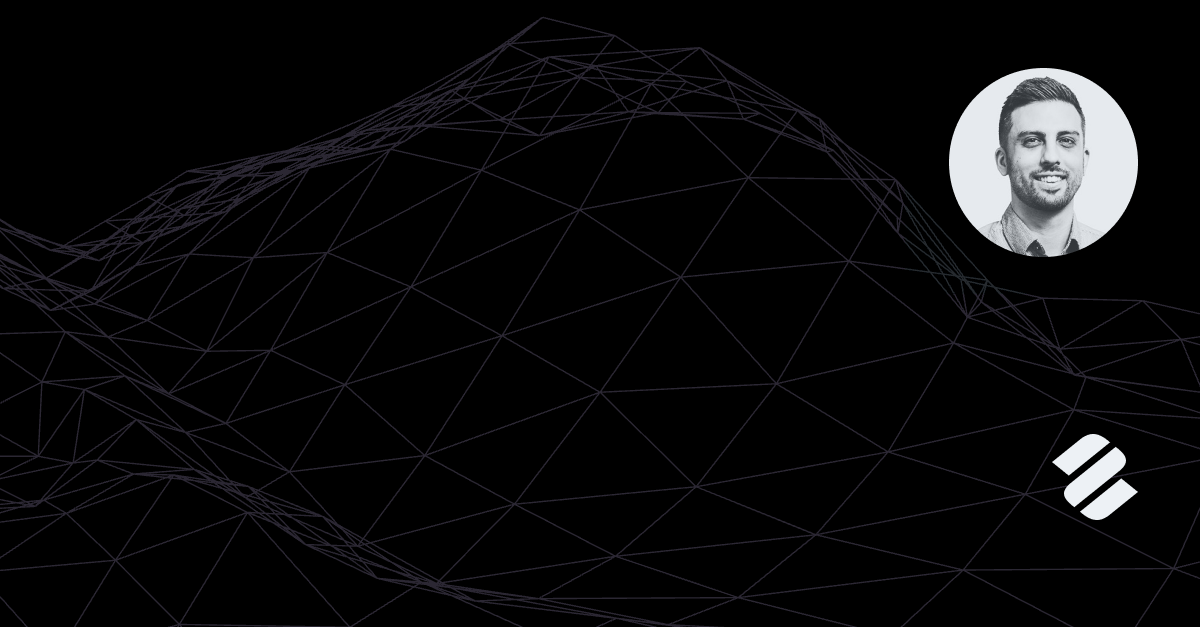
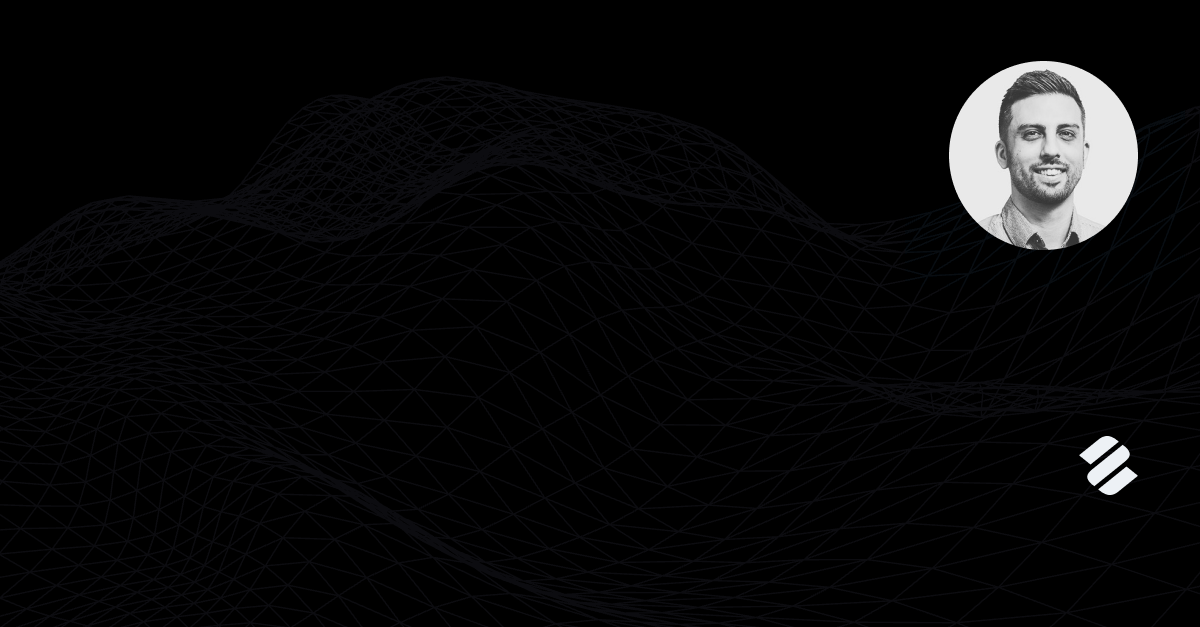
Update og:image

diff --git a/pages/api/og.tsx b/pages/api/og.tsx
@@ -17,7 +17,7 @@ export default async function handler(req: Request) {
     const { searchParams } = new URL(req.url);
 
     const siteUrl = process.env.NEXT_PUBLIC_SITE_URL;
-    const displayUrl = siteUrl?.replace(/^https?:\/\//i, '');
+    const displayUrl = 'https://amir.sh'
 
     const image = searchParams.get('image') || `${siteUrl}/thumbnail.png`;
     const title = searchParams.get('title')?.slice(0, 100);
@@ -34,13 +34,13 @@ export default async function handler(req: Request) {
             }}
           />
           <div tw="h-full flex flex-col relative pr-90 justify-center">
-            <div tw="flex flex-col text-[5.8rem] pl-15 leading-[5.8rem]">
+            <div tw="flex flex-col text-[4.5rem] pl-15 leading-[4.5rem]">
               {title}
               <div tw="flex text-[2.6rem] font-normal normal-case mt-10 leading-[2.5rem]">
                 {description}
               </div>
             </div>
-            <div tw="text-2xl uppercase font-light absolute bottom-12 right-15 text-right">
+            <div tw="text-2xl uppercase font-light absolute bottom-20 right-15 text-right">
               {displayUrl}
             </div>
           </div>
